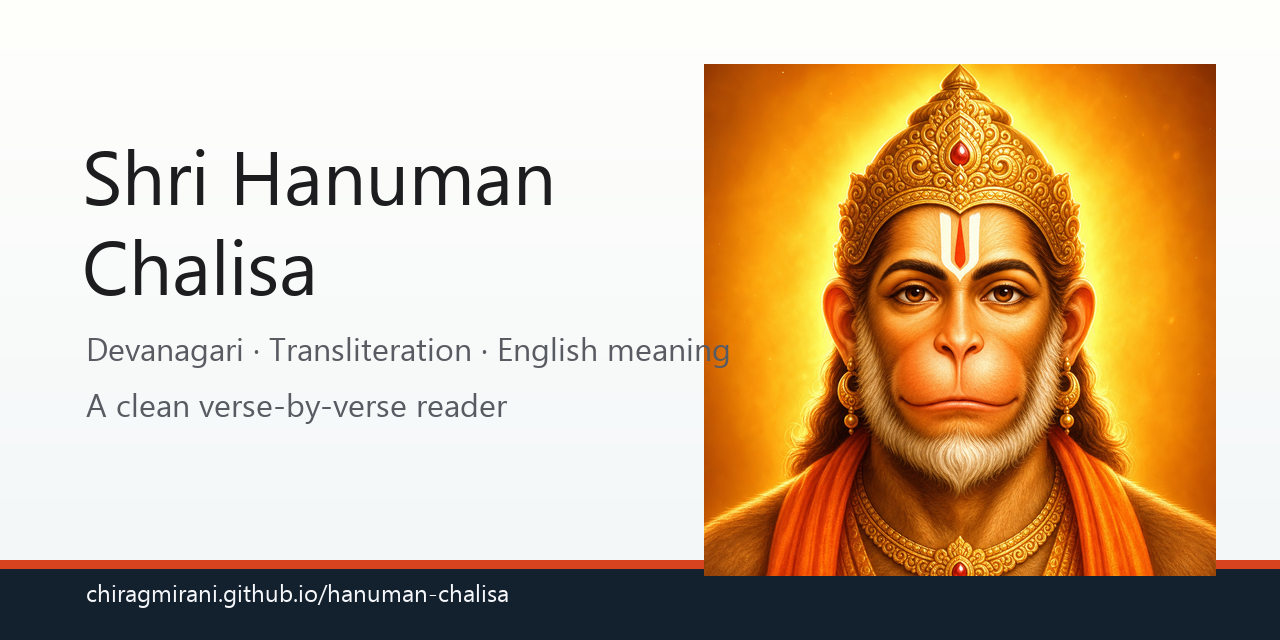
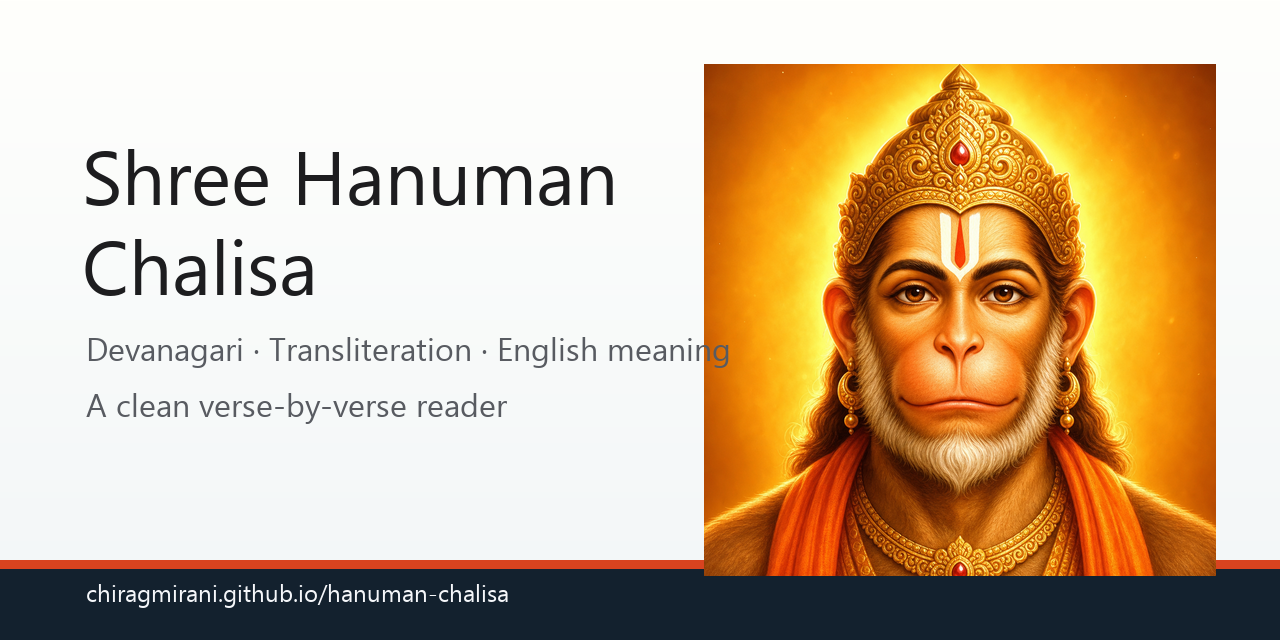
Update Hanuman Chalisa title spelling

Changed region(s): [[0.1562, 0.2188, 0.5, 0.3438]]

diff --git a/hanuman-chalisa/index.html b/hanuman-chalisa/index.html
@@ -3,23 +3,23 @@
   <head>
     <meta charset="utf-8">
     <meta name="viewport" content="width=device-width, initial-scale=1, viewport-fit=cover">
-    <title>Shri Hanuman Chalisa in English</title>
+    <title>Shree Hanuman Chalisa in English</title>
     <meta name="description" content="Read the complete Hanuman Chalisa in English, one verse at a time, with Devanagari, IAST transliteration, and a clean English meaning. Free, fast, offline-ready, and installable.">
     <meta name="author" content="Goswami Tulsidas">
     <meta name="robots" content="index,follow,max-image-preview:large">
-    <meta name="keywords" content="hanuman chalisa, hanuman chalisa english, hanuman chalisa meaning, hanuman chalisa lyrics, shri hanuman chalisa, tulsidas, awadhi hymn, hindu devotional hymn">
+    <meta name="keywords" content="hanuman chalisa, hanuman chalisa english, hanuman chalisa meaning, hanuman chalisa lyrics, shree hanuman chalisa, tulsidas, awadhi hymn, hindu devotional hymn">
     <link rel="canonical" href="https://chiragmirani.github.io/hanuman-chalisa/">
 
     <meta property="og:type" content="book">
-    <meta property="og:title" content="Shri Hanuman Chalisa in English">
+    <meta property="og:title" content="Shree Hanuman Chalisa in English">
     <meta property="og:description" content="The complete Hanuman Chalisa with Devanagari, transliteration, and English meaning.">
     <meta property="og:url" content="https://chiragmirani.github.io/hanuman-chalisa/">
-    <meta property="og:site_name" content="Shri Hanuman Chalisa">
+    <meta property="og:site_name" content="Shree Hanuman Chalisa">
     <meta property="og:image" content="https://chiragmirani.github.io/hanuman-chalisa/social-preview.png">
     <meta property="og:image:width" content="1280">
     <meta property="og:image:height" content="640">
     <meta name="twitter:card" content="summary_large_image">
-    <meta name="twitter:title" content="Shri Hanuman Chalisa in English">
+    <meta name="twitter:title" content="Shree Hanuman Chalisa in English">
     <meta name="twitter:description" content="The complete Hanuman Chalisa with Devanagari, transliteration, and English meaning.">
     <meta name="twitter:image" content="https://chiragmirani.github.io/hanuman-chalisa/social-preview.png">
     <meta name="twitter:creator" content="@chirag_mirani1">
@@ -31,8 +31,8 @@
     <link rel="manifest" href="manifest-v2.webmanifest">
     <meta name="theme-color" content="#ffffff" media="(prefers-color-scheme: light)">
     <meta name="theme-color" content="#000000" media="(prefers-color-scheme: dark)">
-    <meta name="apple-mobile-web-app-title" content="Hanuman Chalisa">
-    <meta name="application-name" content="Hanuman Chalisa">
+    <meta name="apple-mobile-web-app-title" content="Shree Hanuman">
+    <meta name="application-name" content="Shree Hanuman">
     <meta name="apple-mobile-web-app-capable" content="yes">
     <meta name="apple-mobile-web-app-status-bar-style" content="black-translucent">
 
@@ -46,7 +46,7 @@
           "@type": "WebSite",
           "@id": "https://chiragmirani.github.io/hanuman-chalisa/#website",
           "url": "https://chiragmirani.github.io/hanuman-chalisa/",
-          "name": "Shri Hanuman Chalisa in English",
+          "name": "Shree Hanuman Chalisa in English",
           "alternateName": "Hanuman Chalisa",
           "description": "The complete Hanuman Chalisa with Devanagari, transliteration, and English meaning.",
           "publisher": {"@type": "Person", "name": "Chirag Mirani"}
@@ -54,7 +54,7 @@
         {
           "@type": "Book",
           "name": "Hanuman Chalisa",
-          "alternateName": "Shri Hanuman Chalisa",
+          "alternateName": "Shree Hanuman Chalisa",
           "inLanguage": ["awa", "hi", "en"],
           "author": {"@type": "Person", "name": "Goswami Tulsidas"},
           "license": "https://creativecommons.org/publicdomain/mark/1.0/",
@@ -67,7 +67,7 @@
   <body>
     <main>
       <header class="topbar">
-        <a class="brand" href="./">Shri Hanuman Chalisa</a>
+        <a class="brand" href="./">Shree Hanuman Chalisa</a>
         <nav>
           <a href="about.html">About</a>
         </nav>
@@ -142,9 +142,9 @@
         elQuote.textContent = v.english;
         elOriginal.textContent = v.original || "";
         elTranslit.textContent = v.transliteration || "";
-        elCred.textContent = "Awadhi devotional hymn · Shri Hanuman Chalisa";
+        elCred.textContent = "Awadhi devotional hymn · Shree Hanuman Chalisa";
         history.replaceState(null, "", "?v=" + encodeURIComponent(v.id));
-        document.title = labelFor(v) + " | Hanuman Chalisa";
+        document.title = labelFor(v) + " | Shree Hanuman Chalisa";
         try { localStorage.setItem(STORAGE_KEY, v.id); } catch (e) {}
       }
 
@@ -192,7 +192,7 @@
       btnDaily.addEventListener("click", () => show(dailyVerseIndex()));
       btnCopy.addEventListener("click", () => {
         const v = verses[currentIndex];
-        const text = v.english + "\n\n" + v.original + "\n\n" + labelFor(v) + " · Shri Hanuman Chalisa";
+        const text = v.english + "\n\n" + v.original + "\n\n" + labelFor(v) + " · Shree Hanuman Chalisa";
         writeClipboard(text, btnCopy);
       });
       btnLink.addEventListener("click", () => {

diff --git a/hanuman-chalisa/about.html b/hanuman-chalisa/about.html
@@ -3,13 +3,13 @@
   <head>
     <meta charset="utf-8">
     <meta name="viewport" content="width=device-width, initial-scale=1, viewport-fit=cover">
-    <title>About | Shri Hanuman Chalisa</title>
+    <title>About | Shree Hanuman Chalisa</title>
     <meta name="description" content="About this Hanuman Chalisa web app: text, translation approach, source, license, and home-screen install instructions.">
     <meta name="robots" content="index,follow">
     <link rel="canonical" href="https://chiragmirani.github.io/hanuman-chalisa/about.html">
 
     <meta property="og:type" content="website">
-    <meta property="og:title" content="About Shri Hanuman Chalisa">
+    <meta property="og:title" content="About Shree Hanuman Chalisa">
     <meta property="og:description" content="Source, text, translation approach, and install instructions for the Hanuman Chalisa reader.">
     <meta property="og:url" content="https://chiragmirani.github.io/hanuman-chalisa/about.html">
     <meta property="og:image" content="https://chiragmirani.github.io/hanuman-chalisa/social-preview.png">
@@ -21,14 +21,14 @@
     <link rel="manifest" href="manifest-v2.webmanifest">
     <meta name="theme-color" content="#ffffff" media="(prefers-color-scheme: light)">
     <meta name="theme-color" content="#000000" media="(prefers-color-scheme: dark)">
-    <meta name="apple-mobile-web-app-title" content="Hanuman Chalisa">
+    <meta name="apple-mobile-web-app-title" content="Shree Hanuman">
 
     <link rel="stylesheet" href="static/styles.css">
   </head>
   <body>
     <main>
       <header class="topbar">
-        <a class="brand" href="./">Shri Hanuman Chalisa</a>
+        <a class="brand" href="./">Shree Hanuman Chalisa</a>
         <nav>
           <a href="./">Home</a>
         </nav>
